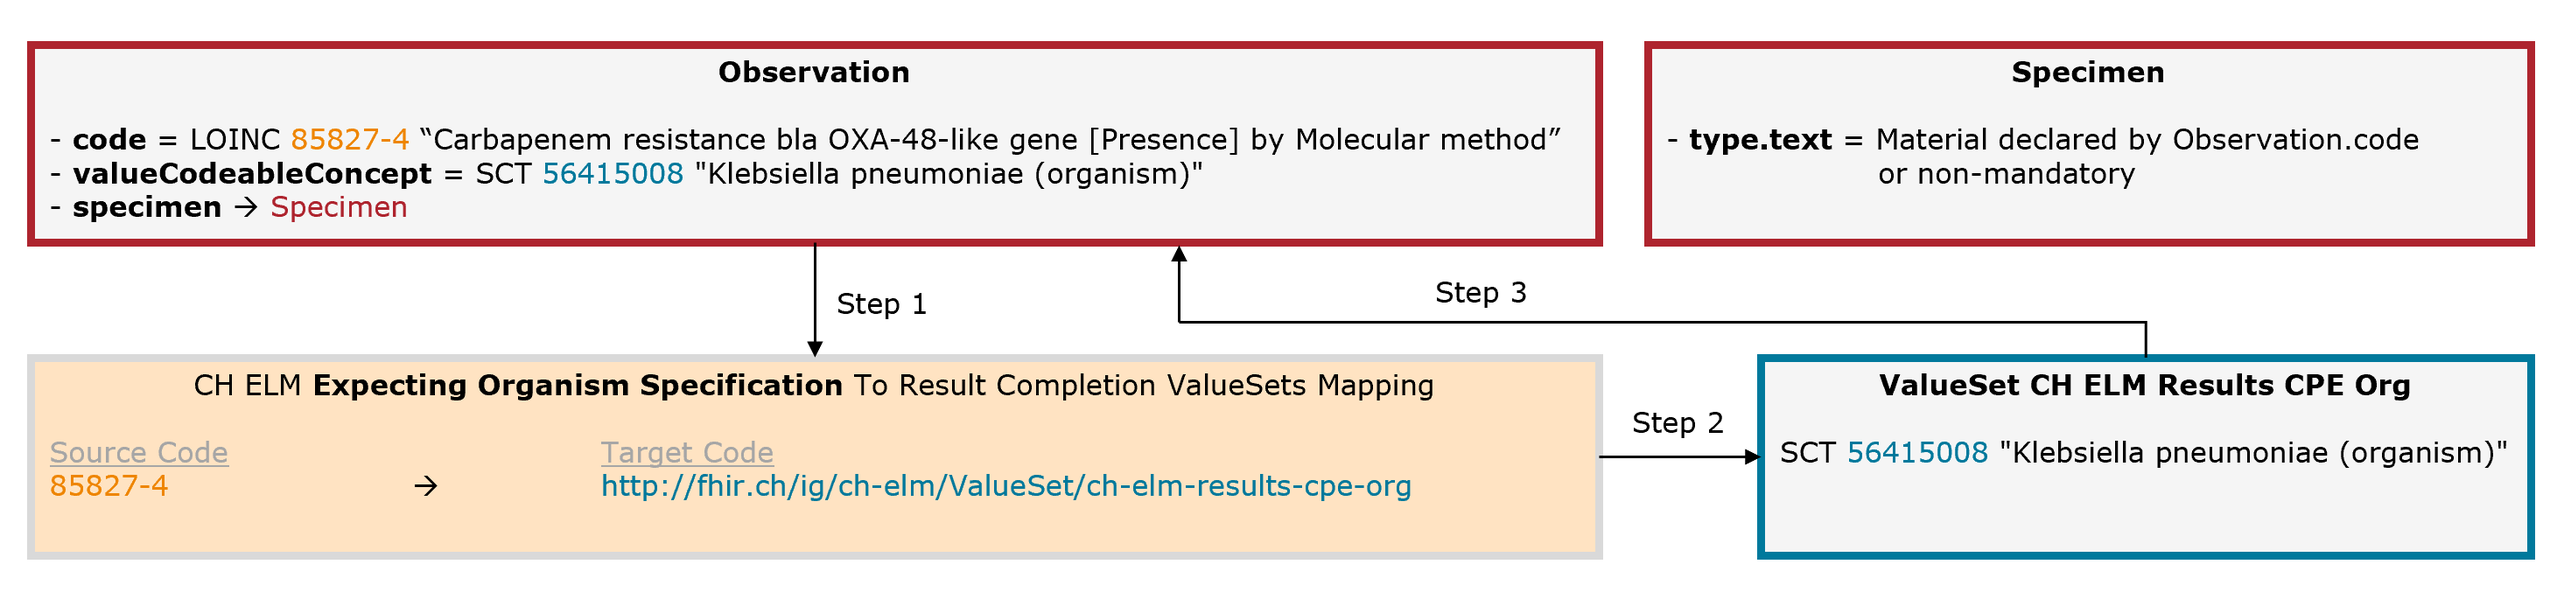
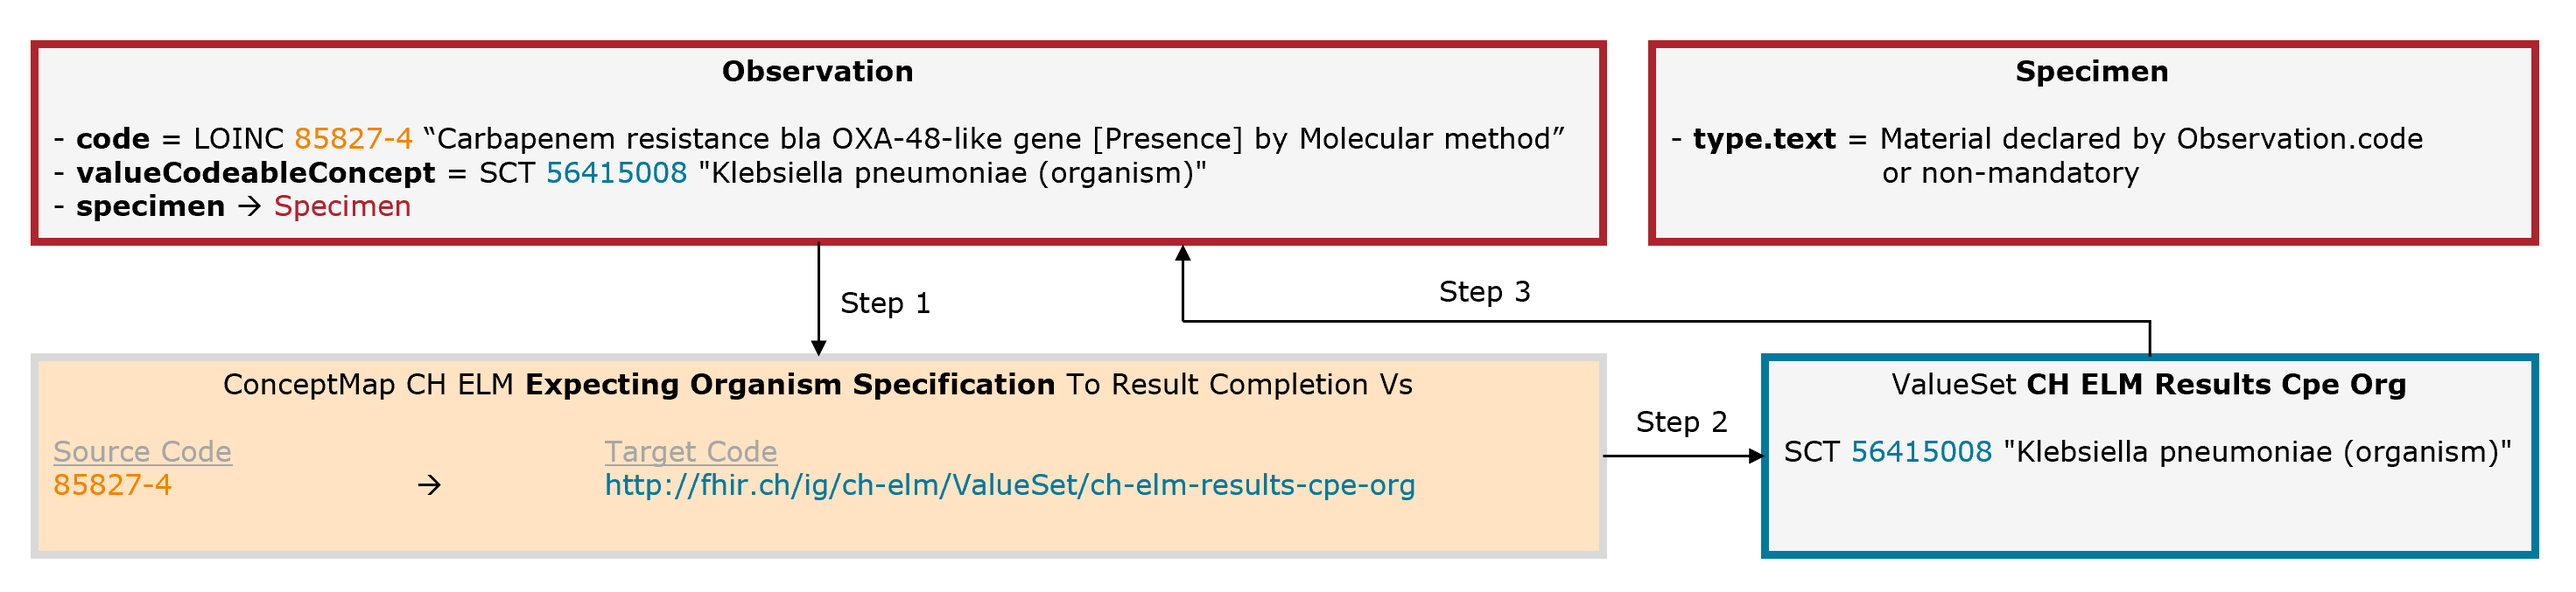
unify spelling (id name)

diff --git a/input/pagecontent/guidance.md b/input/pagecontent/guidance.md
@@ -58,7 +58,7 @@ In some cases, the collection material must be explicitly specified.
 
 [Example Chlamydia trachomatis](Bundle-2Doc-ChlamydiaTrachomatis.html): The leading code (Observation.code = LOINC 6349-5) is completed by an additional code for the collection material (Specimen.type = SNOMED CT 119393003).
 
-1. Check if Observation.code is a member of the [CH ELM Expecting Specimen Specification To Result Completion ValueSets Mapping](ConceptMap-ch-elm-expecting-specimen-specification-to-result-completion-vs.html) (Source Code)
+1. Check if Observation.code is a member of the ConceptMap [CH ELM Expecting Specimen Specification To Result Completion Vs](ConceptMap-ch-elm-expecting-specimen-specification-to-result-completion-vs.html) (Source Code)
    * NO: Observation.code does cover all axes, see section [Leading Code](#leading-code)
    * YES: The collection material must be explicitly specified, continue with step 2
       * Example Chlamydia trachomatis: LOINC 6349-5 is a member of the ConceptMap 
@@ -74,7 +74,7 @@ In some cases, an additional organism must be specified.
 
 [Example Carbapenemase-producing Enterobacteriaceae (CPE)](Bundle-3Doc-CPE.html): The leading code (Observation.code = LOINC 85827-4) is completed by an additional code for the organism (Observation.valueCodeableConcept = SNOMED CT 56415008).
 
-1. Check if Observation.code is a member of the [CH ELM Expecting Organism Specification To Result Completion ValueSets Mapping](ConceptMap-ch-elm-expecting-organism-specification-to-result-completion-vs.html) (Source Code)
+1. Check if Observation.code is a member of the ConceptMap [CH ELM Expecting Organism Specification To Result Completion Vs](ConceptMap-ch-elm-expecting-organism-specification-to-result-completion-vs.html) (Source Code)
    * NO: Observation.code does cover all axes, see section [Leading Code](#leading-code)
    * YES: An additional code for the organism must be specified, continue with step 2
       * Example Carbapenemase-producing Enterobacteriaceae (CPE): LOINC 85827-4 is a member of the ConceptMap 
